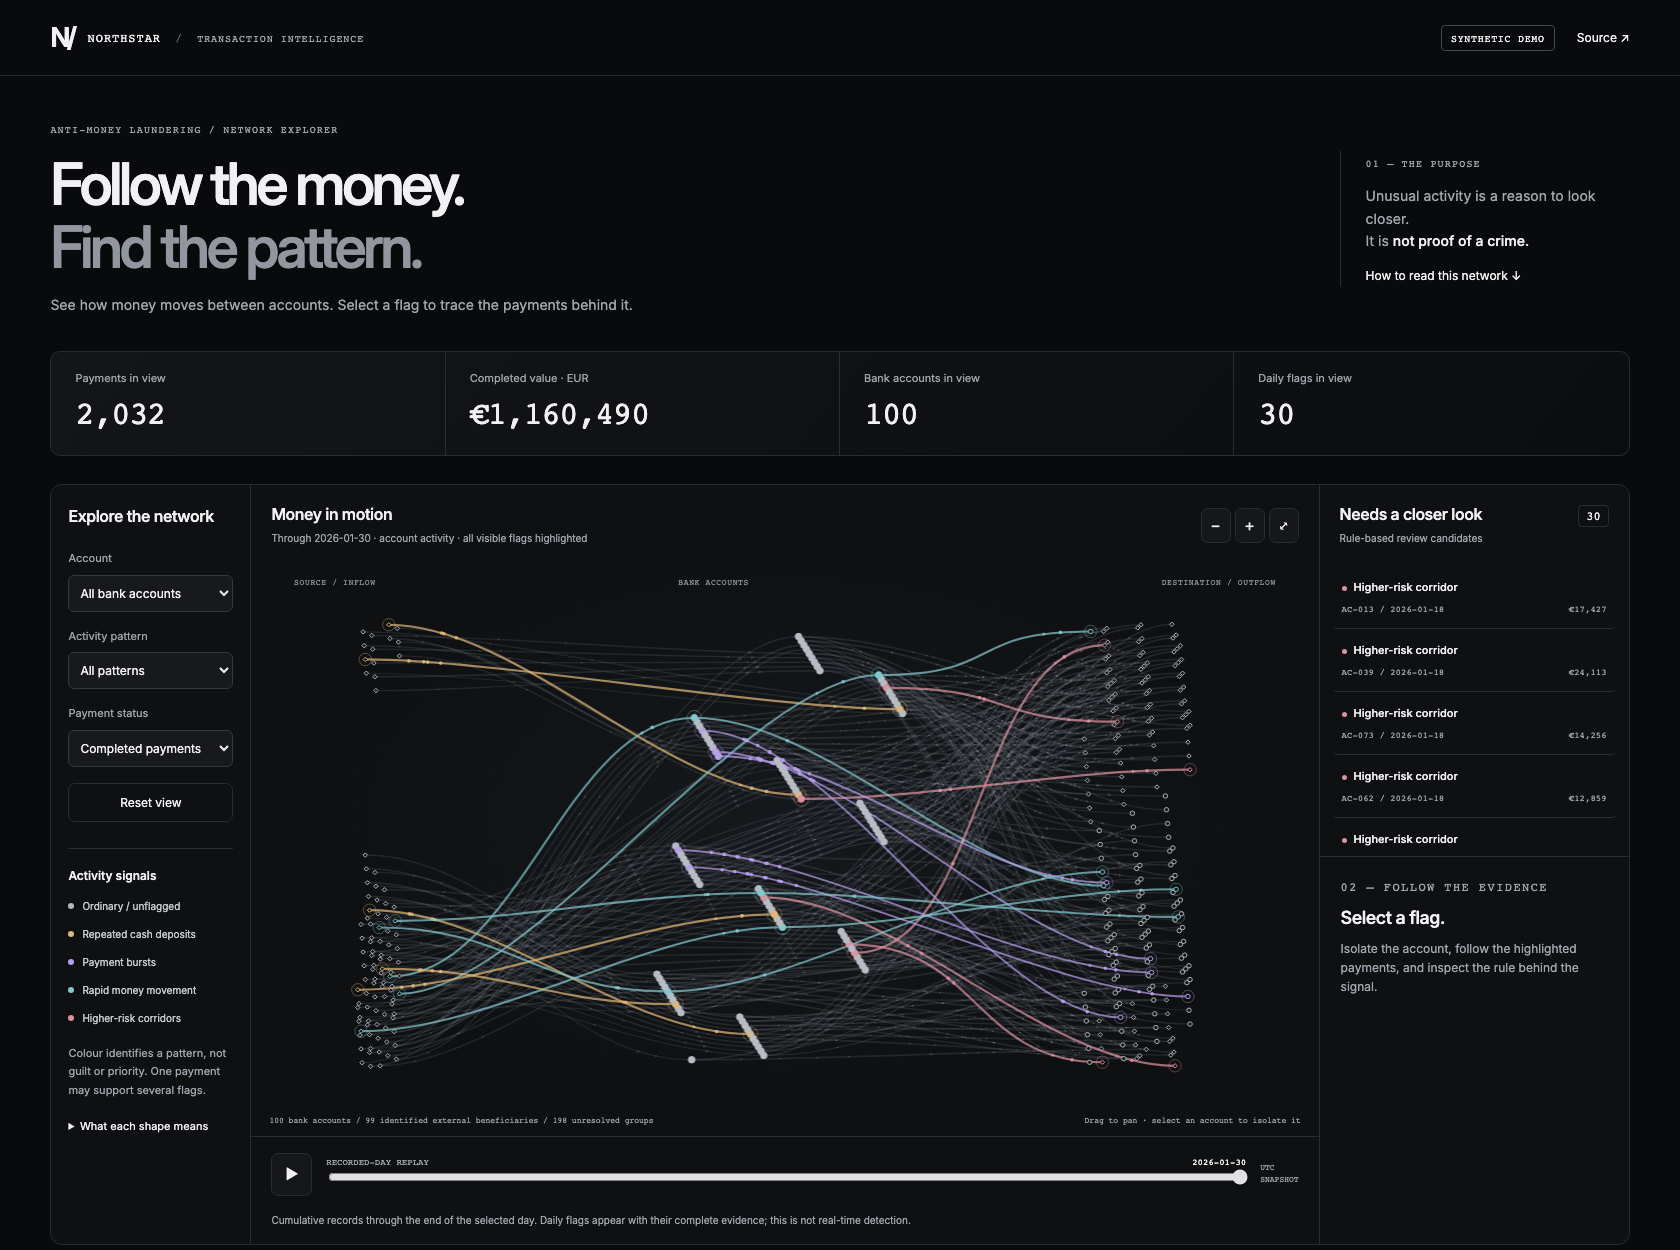
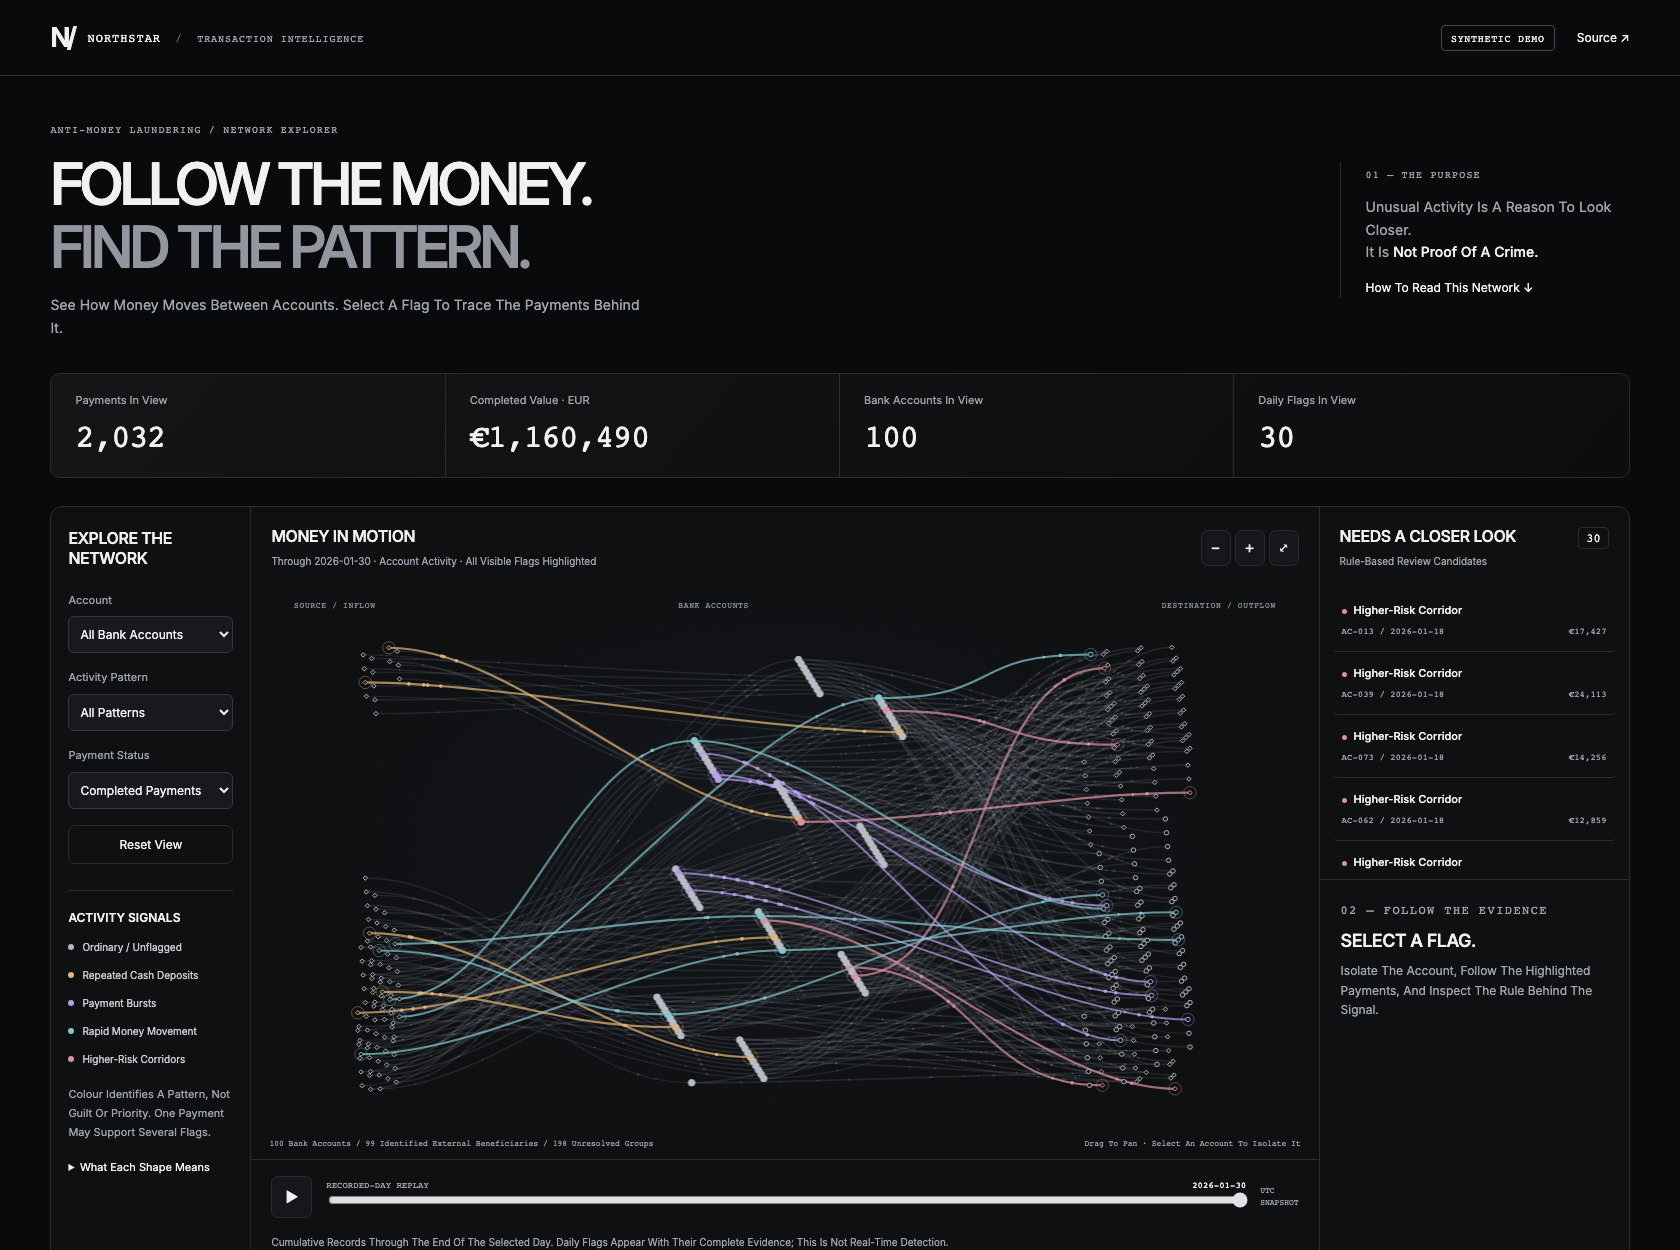
Use title case interface copy and uppercase network headings

diff --git a/web/network/network.js b/web/network/network.js
@@ -122,7 +122,7 @@ function draw(){
    if(n.signals.size){ctx.beginPath();ctx.arc(p.x,p.y,r+4,0,Math.PI*2);ctx.strokeStyle=color;ctx.globalAlpha=.4;ctx.lineWidth=1;ctx.stroke();ctx.globalAlpha=1;}
    ctx.beginPath();if(n.kind==='unknown'){ctx.moveTo(p.x,p.y-r);ctx.lineTo(p.x+r,p.y);ctx.lineTo(p.x,p.y+r);ctx.lineTo(p.x-r,p.y);ctx.closePath();}else ctx.arc(p.x,p.y,r,0,Math.PI*2);
    ctx.fillStyle=n.kind==='bank'?color:'#0e1012';ctx.strokeStyle=color;ctx.lineWidth=1;ctx.fill();ctx.stroke();
-   if($('account').value||zoom>2.2){ctx.font='10px monospace';ctx.fillStyle='#c3c7cf';ctx.textAlign='center';let label=n.kind==='unknown'?(n.id.startsWith('UN-IN')?'Unidentified sources':'Unidentified recipients'):n.id;ctx.fillText(label,p.x,Math.min(h-35,p.y+22));}
+   if($('account').value||zoom>2.2){ctx.font='10px monospace';ctx.fillStyle='#c3c7cf';ctx.textAlign='center';let label=n.kind==='unknown'?(n.id.startsWith('UN-IN')?'Unidentified Sources':'Unidentified Recipients'):n.id;ctx.fillText(label,p.x,Math.min(h-35,p.y+22));}
  }
 }
 function resize(){const rect=canvas.getBoundingClientRect();w=rect.width;h=rect.height;const dpr=Math.min(devicePixelRatio||1,2);canvas.width=w*dpr;canvas.height=h*dpr;ctx.setTransform(dpr,0,0,dpr,0,0);draw();}

diff --git a/web/network/network.css b/web/network/network.css
@@ -8,3 +8,7 @@
 
 .transaction-link{border:0;background:transparent;padding:0;text-decoration:underline;text-underline-offset:3px;font:inherit}.transaction-link:hover{background:transparent;color:#fff}
 .alert-card[aria-pressed=true]{color:var(--text)}
+
+/* Interface copy uses Title Case; headings and structural labels use capitals. */
+body,button,select,option,input{ text-transform:capitalize }
+h1,h2,h3,h4,th,.eyebrow,.small-index,.canvas-label,.timeline label,.brand,.tag,.recorded,footer{ text-transform:uppercase }

diff --git a/scripts/check_network_browser.py b/scripts/check_network_browser.py
@@ -17,17 +17,17 @@ with sync_playwright() as p:
     page.locator('#app').wait_for(state='visible')
     page.evaluate('document.fonts.ready')
     completed=[t for t in fixture['transactions'] if t['status']=='COMPLETED']
-    assert page.locator('#payment-count').inner_text()==f'{len(completed):,}'
-    assert page.locator('#alert-count').inner_text()==str(len(fixture['alerts']))
-    assert page.locator('#account-count').inner_text()=='100'
+    assert page.locator('#payment-count').text_content()==f'{len(completed):,}'
+    assert page.locator('#alert-count').text_content()==str(len(fixture['alerts']))
+    assert page.locator('#account-count').text_content()=='100'
     page.screenshot(path=str(root/'images/network-overview.png'),full_page=False)
     page.select_option('#status','ALL')
-    assert page.locator('#payment-count').inner_text()=='2,110'
+    assert page.locator('#payment-count').text_content()=='2,110'
     with page.expect_download() as result:
         page.locator('#download').click()
     assert result.value.suggested_filename=='northstar-synthetic-view.csv'
     page.select_option('#status','FAILED')
-    assert page.locator('#alert-count').inner_text()=='0'
+    assert page.locator('#alert-count').text_content()=='0'
     page.locator('#reset').click()
     for rule in ['STRUCTURING','VELOCITY','RAPID_MOVEMENT','HIGH_RISK_CORRIDOR']:
         page.locator('#reset').click()
@@ -35,16 +35,16 @@ with sync_playwright() as p:
         page.locator('.alert-card').first.click()
         account=page.locator('#account').input_value()
         assert account.startswith('AC-')
-        assert page.locator('#ledger-title').inner_text()=='Supporting payments for this flag'
-        assert 'Rules: northstar-sql-v1' in page.locator('#inspector').inner_text()
+        assert page.locator('#ledger-title').text_content()=='Supporting payments for this flag'
+        assert 'Rules: northstar-sql-v1' in page.locator('#inspector').text_content()
         assert page.locator('#transactions tr').count()>0
         if rule=='RAPID_MOVEMENT':
-            assert 'Context' in page.locator('#transactions').inner_text()
-            assert 'Counted' in page.locator('#transactions').inner_text()
+            assert 'Context' in page.locator('#transactions').text_content()
+            assert 'Counted' in page.locator('#transactions').text_content()
             page.screenshot(path=str(root/'images/network-evidence.png'))
     page.locator('#reset').click()
     page.locator('#day').fill('0')
-    assert page.locator('#alert-count').inner_text()=='0'
+    assert page.locator('#alert-count').text_content()=='0'
     page.locator('#play').click()
     page.wait_for_function("Number(document.getElementById('day').value)>0")
     page.locator('#play').click()
@@ -52,16 +52,16 @@ with sync_playwright() as p:
     page.locator('#zoom-in').click();page.locator('#fit').click()
     page.locator('#network').focus();page.keyboard.press('ArrowRight');page.keyboard.press('0')
     page.locator('.transaction-link').first.click()
-    assert page.locator('#ledger-title').inner_text()=='Selected payment'
-    assert page.locator('#inspector h3').inner_text().startswith('TX-')
+    assert page.locator('#ledger-title').text_content()=='Selected payment'
+    assert page.locator('#inspector h3').text_content().startswith('TX-')
     page.locator('#reset').click()
     page.locator('#next').click()
-    assert 'page 2' in page.locator('#page-count').inner_text()
+    assert 'page 2' in page.locator('#page-count').text_content()
     mobile=browser.new_page(viewport={'width':390,'height':844},reduced_motion='reduce')
     mobile.goto(url,wait_until='networkidle');mobile.locator('#app').wait_for(state='visible')
     assert mobile.evaluate('document.documentElement.scrollWidth <= innerWidth')
     mobile.select_option('#pattern','RAPID_MOVEMENT');mobile.locator('.alert-card').first.click()
-    assert mobile.locator('#inspector h3').inner_text()=='Rapid money movement'
+    assert mobile.locator('#inspector h3').text_content()=='Rapid money movement'
     mobile.screenshot(path=str(Path(tempfile.gettempdir())/'northstar-mobile.png'),full_page=True)
     assert not errors,errors
     browser.close()
